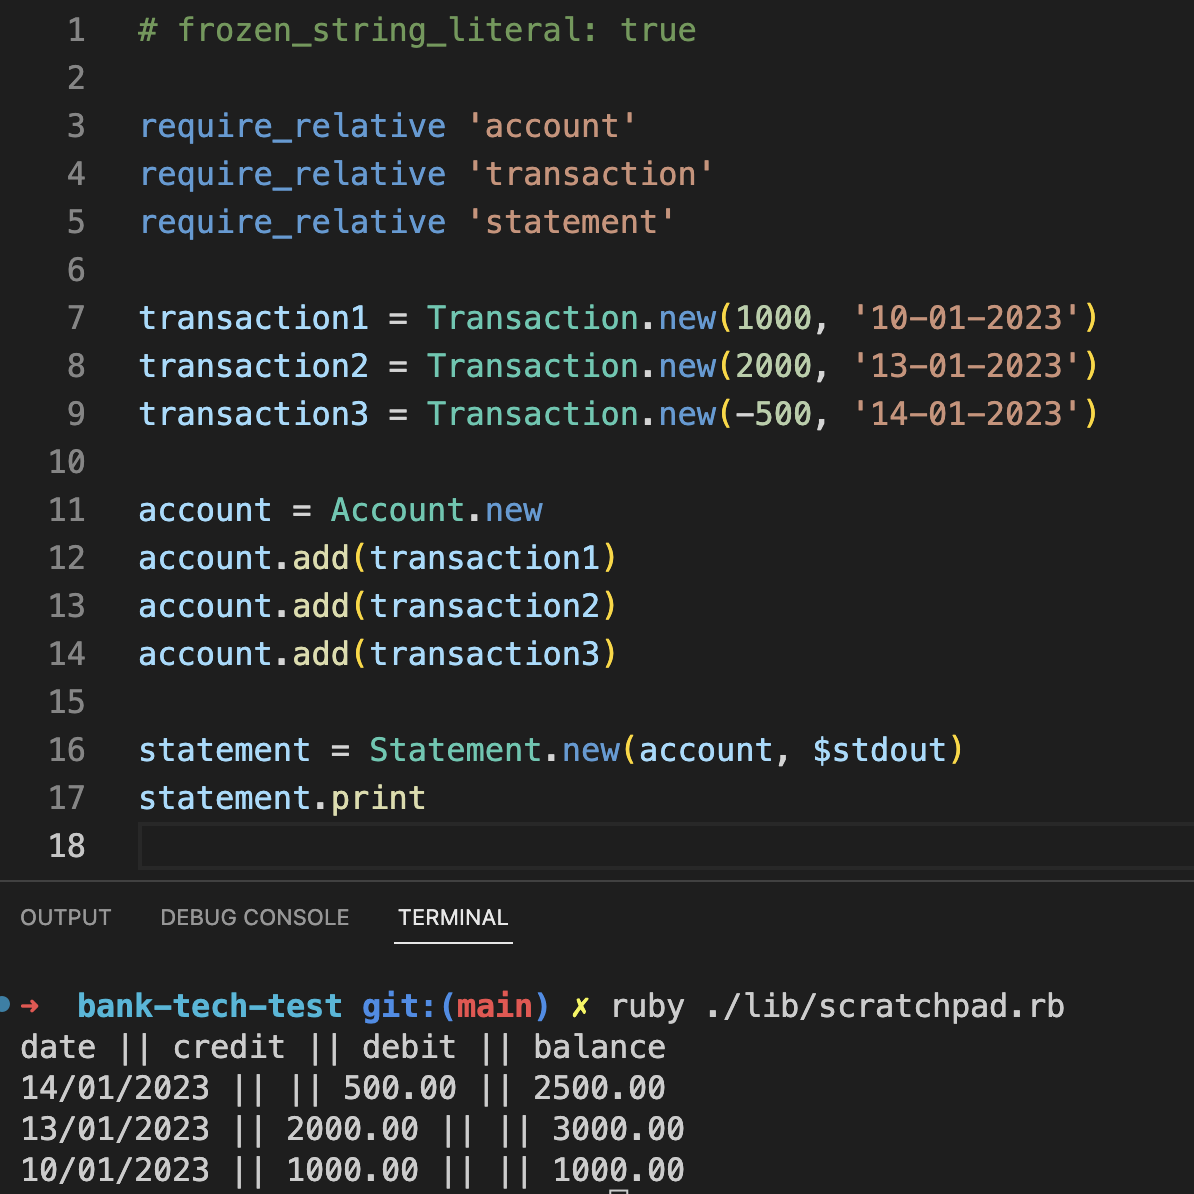
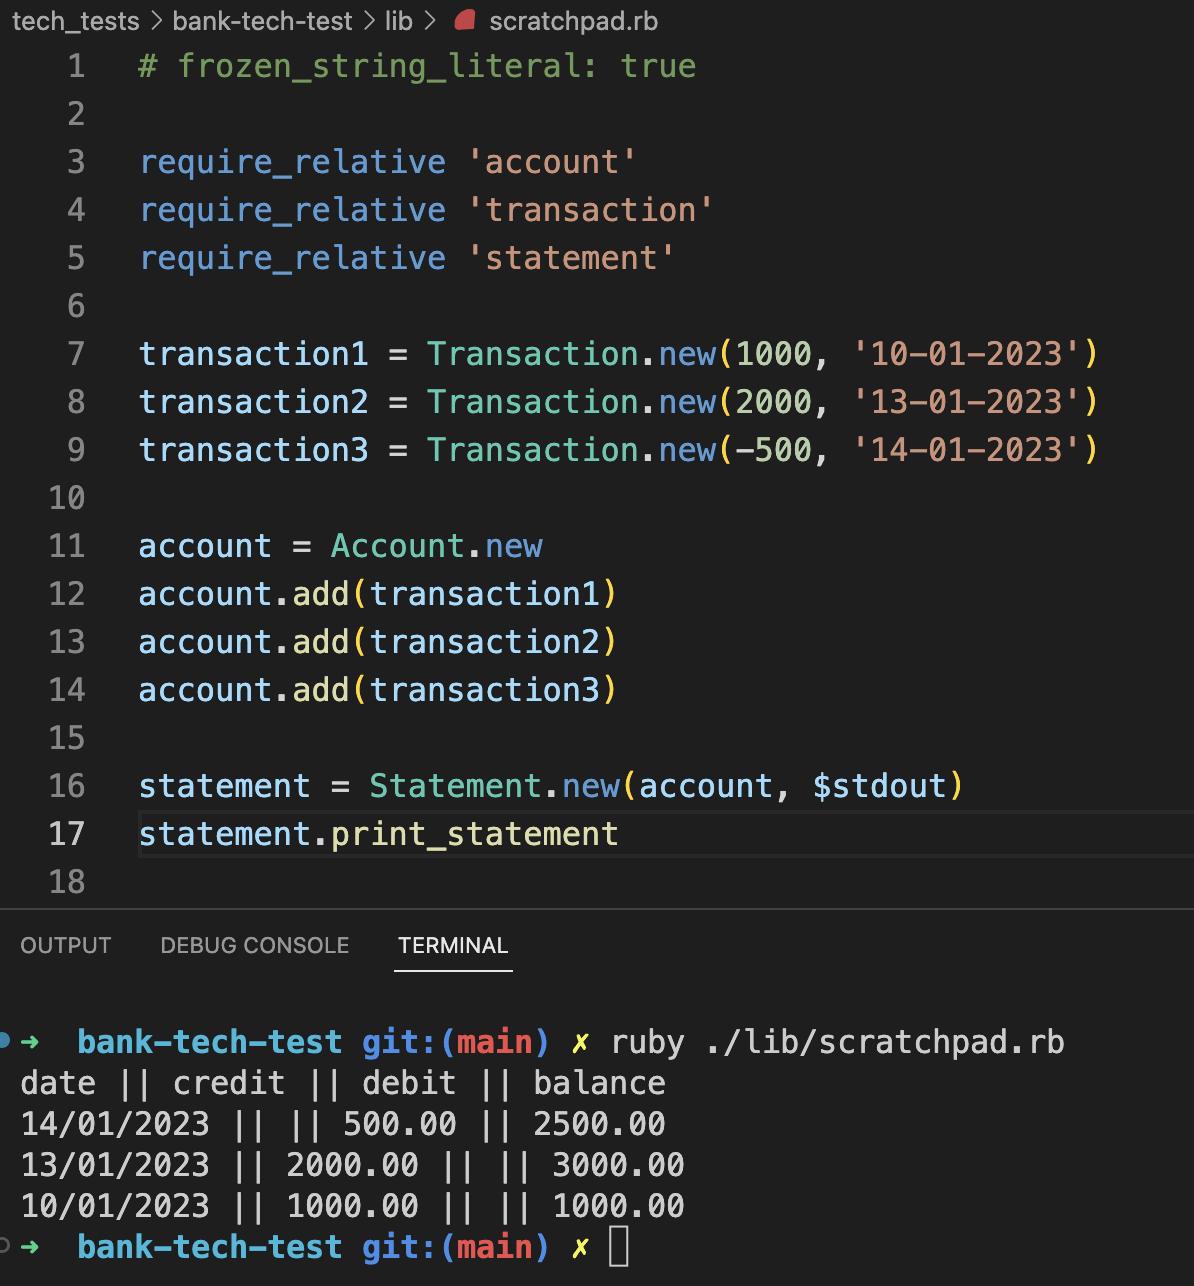
Renamed Statement#print to #print_statement to avoid synonimity with Ruby's own method; updated relevant screenshot

diff --git a/spec/statement_integration_spec.rb b/spec/statement_integration_spec.rb
@@ -24,7 +24,7 @@ RSpec.describe 'Statement integration' do
     account.add(transaction3)
 
     statement = Statement.new(account, io)
-    statement.print
+    statement.print_statement
   end
 
   it 'prints a statement of only credits' do
@@ -43,7 +43,7 @@ RSpec.describe 'Statement integration' do
     account.add(transaction3)
 
     statement = Statement.new(account, io)
-    statement.print
+    statement.print_statement
   end
 
   it 'prints a statement of only debits, with negative balances' do
@@ -62,7 +62,7 @@ RSpec.describe 'Statement integration' do
     account.add(transaction3)
 
     statement = Statement.new(account, io)
-    statement.print
+    statement.print_statement
   end
 
   context 'when transactions are added out of date order' do
@@ -82,7 +82,7 @@ RSpec.describe 'Statement integration' do
       account.add(transaction3)
 
       statement = Statement.new(account, io)
-      statement.print
+      statement.print_statement
     end
   end
 end

diff --git a/lib/statement.rb b/lib/statement.rb
@@ -6,7 +6,7 @@ class Statement
     @io = io
   end
 
-  def print
+  def print_statement
     @account.calculate_balances
     @io.puts 'date || credit || debit || balance'
     @account.transactions.each do |transaction|
